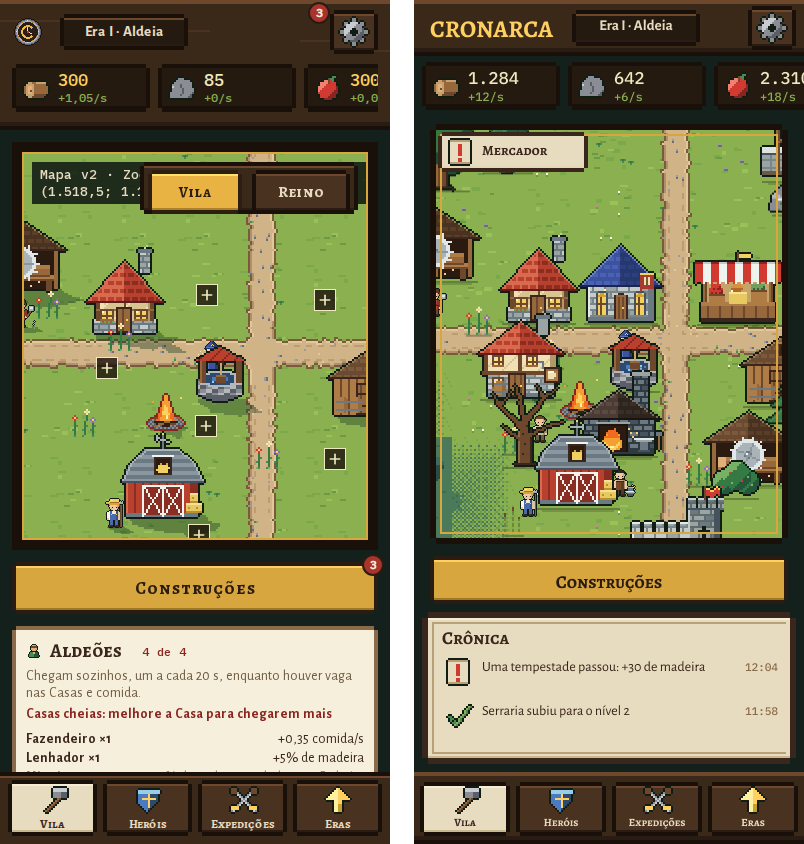
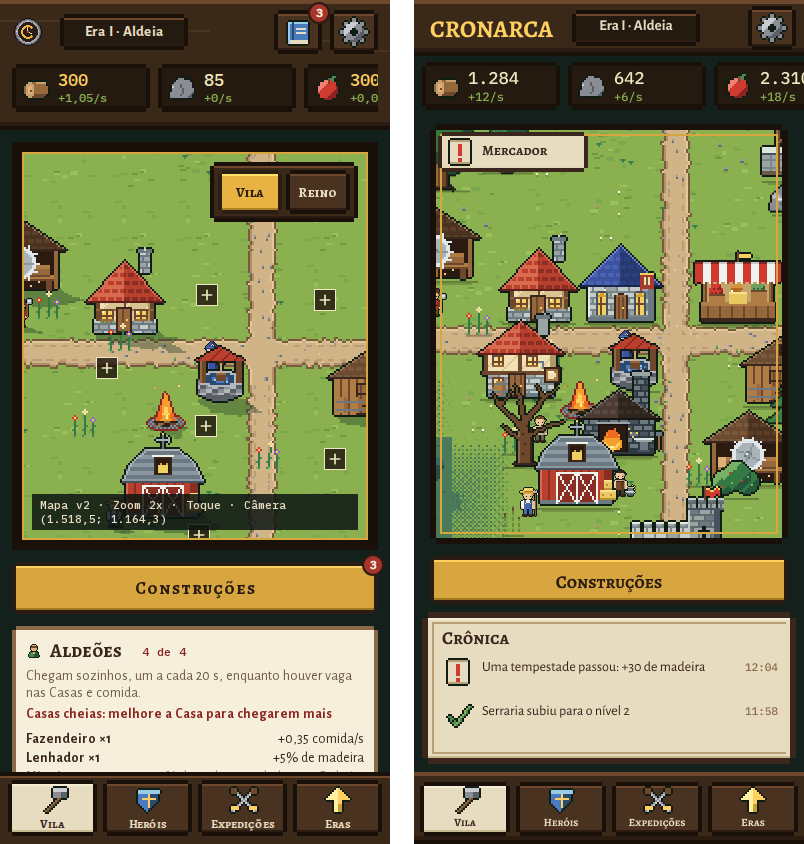
Catálogo com resumo do próximo nível; Vila/Reino compacto no celular
- Catálogo: a linha de construção já feita mostra "Nível N → N+1", o
  efeito de hoje → depois, o custo (falta em vermelho), o tempo de obra e
  o motivo; Melhorar dourado só quando dá para pagar, "Nível 10 · máximo"
  sem botão. O Melhorar do catálogo age direto (câmera vai até a
  construção); o modal Melhorar segue pelo mapa e pelo painel. As linhas
  de Construir mostram o tempo de obra.
- Celular: alternância Vila/Reino compacta (botões de 64 x 44) e a leitura
  de depuração (só em desenvolvimento) no pé do mapa.
- conferir-mobile abre o modal Melhorar tocando na Casa no mapa.

diff --git a/apps/frontend/components/casca/Catalogo.tsx b/apps/frontend/components/casca/Catalogo.tsx
@@ -6,7 +6,7 @@
 // intenções: quem constrói é o JogoAoVivo, e quem valida é o servidor.
 
 import { TEXTOS_CATALOGO, type SlotId } from '@cronarca/game-core';
-import { Check, Lock } from 'lucide-react';
+import { ArrowRight, Check, Lock } from 'lucide-react';
 import { useEffect, useRef, useState, type KeyboardEvent } from 'react';
 import { filtrarCatalogo, type FiltroCatalogo, type LinhaCatalogoTela } from '../../lib/casca/modais';
 import { Icone } from './Icone';
@@ -47,7 +47,17 @@ function Linha({ l, foco, construindo, aoAgir }: { l: LinhaCatalogoTela; foco: b
     >
       <SpriteAnimado className={estilos.pixel} sprite={l.sprite} instancia={l.slot} lado={48} />
       <div className={estilos.linhaInfo}>
-        <h3 className={estilos.nomeLinha}>{l.nome}</h3>
+        <h3 className={estilos.nomeLinha}>
+          {l.nome}
+          {l.nivel && <span className={estilos.nivelNome}>{l.nivel}</span>}
+        </h3>
+        {l.efeito && (
+          <p className={estilos.efeitoLinha}>
+            {l.efeito.hoje}
+            <ArrowRight size={14} strokeWidth={3} aria-label="passa a" className={estilos.setaLinha} />
+            <strong>{l.efeito.depois}</strong>
+          </p>
+        )}
         {l.custo.length > 0 && (
           <p className={estilos.custosLinha}>
             {l.custo.map((c) => (
@@ -56,6 +66,12 @@ function Linha({ l, foco, construindo, aoAgir }: { l: LinhaCatalogoTela; foco: b
                 {c.valor}
               </span>
             ))}
+            {l.tempo && (
+              <span className={estilos.tempoLinha}>
+                <Icone nome="icone-tempo" tamanho={16} />
+                {l.tempo}
+              </span>
+            )}
           </p>
         )}
         {l.obra && (
@@ -67,10 +83,10 @@ function Linha({ l, foco, construindo, aoAgir }: { l: LinhaCatalogoTela; foco: b
             </div>
           </div>
         )}
-        {l.nivel && (
+        {l.nivel && !l.acao && (
           <p className={estilos.nivelLinha}>
             <Check size={16} strokeWidth={3} aria-hidden="true" className={estilos.verde} />
-            {l.nivel}
+            {T.maximo}
           </p>
         )}
         {l.motivo && (
@@ -84,14 +100,14 @@ function Linha({ l, foco, construindo, aoAgir }: { l: LinhaCatalogoTela; foco: b
         <button
           type="button"
           tabIndex={-1}
-          className={`caixa botao ${l.acao === 'construir' ? 'botao-dourado' : ''} ${estilos.botaoLinha} ${desativado ? estilos.desativado : ''}`}
+          className={`caixa botao ${l.pode ? 'botao-dourado' : ''} ${estilos.botaoLinha} ${desativado ? estilos.desativado : ''}`}
           aria-disabled={desativado || undefined}
           aria-describedby={l.motivo ? idMotivo : undefined}
           onClick={() => {
             if (!desativado) aoAgir();
           }}
         >
-          {construindo ? T.construindo : l.acao === 'construir' ? T.construir : T.melhorar}
+          {construindo ? (l.acao === 'melhorar' ? T.melhorando : T.construindo) : l.acao === 'construir' ? T.construir : T.melhorar}
         </button>
       )}
     </li>

diff --git a/apps/frontend/lib/casca/modais.ts b/apps/frontend/lib/casca/modais.ts
@@ -140,8 +140,12 @@ export interface LinhaCatalogoTela {
   custo: CustoModal[];
   /** Motivo em texto (não só cor): "Falta pedra e ouro", "Requer Cartografia". */
   motivo: string | null;
-  /** Construída: "Nível 3". */
+  /** Construída: "Nível 3 → 4" ou "Nível 10 · máximo". */
   nivel: string | null;
+  /** Construída e abaixo do máximo: o efeito de hoje e o do próximo nível ("+12 aldeões" → "+16 aldeões"). */
+  efeito: { hoje: string; depois: string } | null;
+  /** Tempo da obra do próximo nível ("1:22 de obra"); null sem obra possível. */
+  tempo: string | null;
   obra: { restante: string; fracao: number } | null;
   /** O botão da linha (Em obra e Bloqueada não têm). */
   acao: 'construir' | 'melhorar' | null;
@@ -152,6 +156,26 @@ export interface LinhaCatalogoTela {
 function paraTela(e: VisaoCliente, l: LinhaCatalogo, agora: number): LinhaCatalogoTela {
   const T = TEXTOS_CATALOGO;
   const vazio = l.estado === 'construivel' || l.estado === 'sem_recursos';
+  if (l.estado === 'construida') {
+    // Resumo do próximo nível na própria linha (o mesmo cálculo do modal Melhorar).
+    const o = obra(e, l.slot, agora);
+    const maximo = o.situacao === 'maximo';
+    const faltando = o.custo.filter((c) => c.falta).map((c) => NOMES_RECURSOS[c.recurso].toLowerCase());
+    return {
+      slot: l.slot,
+      nome: l.nome,
+      sprite: { grupo: 'construcao', id: l.tipo },
+      estado: l.estado,
+      custo: o.custo,
+      motivo: faltando.length ? `${T.falta} ${juntarNomes(faltando)}` : null,
+      nivel: maximo ? `${T.nivel} ${o.nivel} · ${T.nivelMaximo}` : `${T.nivel} ${o.nivel} → ${o.alvo}`,
+      efeito: maximo || o.hoje === null ? null : { hoje: o.hoje, depois: o.depois },
+      tempo: maximo ? null : `${o.tempo} ${T.deObra}`,
+      obra: null,
+      acao: maximo ? null : 'melhorar',
+      pode: !maximo && faltando.length === 0,
+    };
+  }
   return {
     slot: l.slot,
     nome: l.nome,
@@ -162,10 +186,12 @@ function paraTela(e: VisaoCliente, l: LinhaCatalogo, agora: number): LinhaCatalo
       l.estado === 'sem_recursos' ? `${T.falta} ${juntarNomes(l.falta.map((r) => NOMES_RECURSOS[r].toLowerCase()))}`
       : l.estado === 'bloqueada' && l.requer ? `${T.requer} ${PESQUISAS[l.requer].nome}`
       : null,
-    nivel: l.estado === 'construida' ? `${T.nivel} ${l.nivel}` : null,
+    nivel: null,
+    efeito: null,
+    tempo: vazio ? `${formatarDuracao(tempoObraMs(1))} ${T.deObra}` : null,
     obra: l.obra ? { restante: formatarRestante(l.obra.fim - agora), fracao: l.obra.fracao } : null,
-    acao: vazio ? 'construir' : l.estado === 'construida' ? 'melhorar' : null,
-    pode: l.estado === 'construivel' || l.estado === 'construida',
+    acao: vazio ? 'construir' : null,
+    pode: l.estado === 'construivel',
   };
 }
 

diff --git a/apps/frontend/components/jogo/JogoAoVivo.tsx b/apps/frontend/components/jogo/JogoAoVivo.tsx
@@ -104,7 +104,7 @@ function Jogo({ depuracao = false, acoesDepuracao }: PropsJogo) {
   const [apagando, setApagando] = useState(false);
   /** Construíveis no momento em que o catálogo abriu: o selo some até aparecer um novo. */
   const [vistos, setVistos] = useState<ReadonlySet<SlotId>>(new Set());
-  /** Slot cujo construir espera o servidor (o catálogo fecha com a confirmação). */
+  /** Slot cuja obra (construir ou melhorar pelo catálogo) espera o servidor (o catálogo fecha com a confirmação). */
   const [construindo, setConstruindo] = useState<SlotId | null>(null);
   /** Grupo da expedição: começa vazio; só quem está na vila entra (lib/casca/telas). */
   const [selecionados, setSelecionados] = useState<string[]>([]);
@@ -213,14 +213,15 @@ function Jogo({ depuracao = false, acoesDepuracao }: PropsJogo) {
   }
 
   /**
-   * Construir pelo catálogo: a obra aparece prevista; com a confirmação do
-   * servidor o catálogo fecha, o jogo vai para a Vila e a câmera anima até o
-   * slot, que pisca. Recusa: aviso e o catálogo continua aberto.
+   * Construir ou melhorar pelo catálogo (a linha já mostrou o resumo): a obra
+   * aparece prevista; com a confirmação do servidor o catálogo fecha, o jogo
+   * vai para a Vila e a câmera anima até o slot, que pisca. Recusa: aviso e o
+   * catálogo continua aberto.
    */
-  const construir = async (slot: SlotId) => {
+  const obraPeloCatalogo = async (tipo: 'construir' | 'melhorar', slot: SlotId) => {
     if (construindo) return;
     setConstruindo(slot);
-    const d = await enviarPrevista({ tipo: 'construir', slot });
+    const d = await enviarPrevista({ tipo, slot });
     setConstruindo(null);
     if (!d.ok) return;
     setModal(null);
@@ -448,9 +449,8 @@ function Jogo({ depuracao = false, acoesDepuracao }: PropsJogo) {
           linhas={linhasCatalogoTela(visivel, agora, modal.ordem)}
           foco={modal.foco}
           construindo={construindo}
-          aoConstruir={(slot) => void construir(slot)}
-          // Troca de modal (não empilha dois diálogos com foco preso).
-          aoMelhorar={(slot) => setModal({ tipo: 'obra', slot })}
+          aoConstruir={(slot) => void obraPeloCatalogo('construir', slot)}
+          aoMelhorar={(slot) => void obraPeloCatalogo('melhorar', slot)}
           aoFechar={() => setModal(null)}
         />
       )}

diff --git a/apps/frontend/test/modais.test.ts b/apps/frontend/test/modais.test.ts
@@ -90,7 +90,12 @@ describe('catálogo na tela (A12)', () => {
     expect(porSlot.mercado_1).toMatchObject({ estado: 'construivel', pode: true });
     expect(porSlot.mercado_1!.custo.map((c) => c.recurso)).toEqual(['madeira']);
     expect(porSlot.muralha_1).toMatchObject({ estado: 'em_obra', acao: null, custo: [], obra: { restante: '00:32' } });
-    expect(porSlot.casa_1).toMatchObject({ estado: 'construida', acao: 'melhorar', pode: true, nivel: 'Nível 3' });
+    // Construída: o resumo do próximo nível já na linha (o mesmo cálculo do modal Melhorar).
+    expect(porSlot.casa_1).toMatchObject({
+      estado: 'construida', acao: 'melhorar', pode: true, nivel: 'Nível 3 → 4', motivo: null,
+      efeito: { hoje: '+12 aldeões', depois: '+16 aldeões' }, tempo: '1:22 de obra',
+    });
+    expect(porSlot.casa_1!.custo.map((c) => `${c.recurso} ${c.valor}`)).toEqual(['madeira 447', 'pedra 223']);
     expect(porSlot.serraria_2!.nome).toBe('Serraria II');
   });
 
@@ -179,5 +184,21 @@ describe('modais: Ascensão', () => {
     expect(formatarDuracao(45_000)).toBe('0:45');
     expect(formatarDuracao(90_000)).toBe('1:30');
     expect(formatarDuracao(3_720_000)).toBe('1:02:00');
+  });
+});
+
+describe('catálogo: linha de construção já feita', () => {
+  it('sem recurso: o motivo diz o que falta e o Melhorar fica apagado', () => {
+    const e = novo();
+    const casa = linhasCatalogoTela(e, T0).find((l) => l.slot === 'casa_1')!;
+    expect(casa).toMatchObject({ acao: 'melhorar', pode: false, nivel: 'Nível 1 → 2' });
+    expect(casa.motivo).toMatch(/^Falta /);
+  });
+
+  it('no nível máximo: sem botão, sem custo, "Nível 10 · máximo"', () => {
+    const e = novo();
+    e.slots.casa_1.nivel = 10;
+    const casa = linhasCatalogoTela(e, T0).find((l) => l.slot === 'casa_1')!;
+    expect(casa).toMatchObject({ acao: null, pode: false, nivel: 'Nível 10 · máximo', efeito: null, tempo: null, custo: [] });
   });
 });

diff --git a/packages/game-core/data/catalogo.ts b/packages/game-core/data/catalogo.ts
@@ -4,12 +4,18 @@
 export const TEXTOS_CATALOGO = {
   titulo: 'Construções',
   subtitulo: 'Escolha o que erguer. O terreno é escolhido por nós.',
-  rodape: 'Cada construção ocupa o terreno do seu tipo. Ao construir, a câmera vai até ela.',
+  rodape: 'Cada construção ocupa o terreno do seu tipo. Ao construir ou melhorar, a câmera vai até ela.',
   filtroTodas: 'Todas',
   filtroDisponiveis: 'Disponíveis',
   construir: 'Construir',
   construindo: 'Construindo…',
   melhorar: 'Melhorar',
+  melhorando: 'Melhorando…',
+  maximo: 'Máximo',
+  /** Depois do nível 10: "Nível 10 · máximo". */
+  nivelMaximo: 'máximo',
+  /** Depois do tempo: "1:22 de obra". */
+  deObra: 'de obra',
   nivel: 'Nível',
   /** Seguido dos recursos que faltam: "Falta pedra e ouro". */
   falta: 'Falta',

diff --git a/apps/frontend/components/casca/casca.module.css b/apps/frontend/components/casca/casca.module.css
@@ -2307,10 +2307,23 @@
 /* Celular: a alternância Vila/Reino no canto de cima à direita do mapa
    (frame "Mapa - Mobile"); embaixo ficava o botão Construir, que saiu do mapa. */
 @media (max-width: 600px) {
+  /* Compacta: dois botões de 64 x 44 (alvo de toque), cerca de 140 de largura em vez de 218. */
   .alternar {
     top: 8px;
     bottom: auto;
     right: 8px;
+    width: auto;
+    height: auto;
+    gap: 4px;
+    padding: 4px;
+  }
+  .alternar button,
+  .alternar button:first-child,
+  .alternar button:last-child {
+    width: 64px;
+    height: 44px;
+    font-size: 14px;
+    letter-spacing: 0.5px;
   }
   /* Chip do Mercador abaixo da alternância: em 360 px os dois se cruzavam e a
      alternância cobria o chip (o toque não chegava nele). */

diff --git a/apps/frontend/components/casca/modais.module.css b/apps/frontend/components/casca/modais.module.css
@@ -1071,3 +1071,31 @@
     --fundo: #fbf1d0;
   }
 }
+
+/* Resumo do próximo nível na linha do catálogo: "Nível 3 → 4", o efeito de
+   hoje → depois e o tempo de obra ao lado do custo. */
+.nivelNome {
+  margin-left: 8px;
+  font-family: var(--fonte-texto), sans-serif;
+  font-size: 13px;
+  font-weight: 700;
+  color: #8a6a48;
+}
+.efeitoLinha {
+  display: flex;
+  flex-wrap: wrap;
+  align-items: center;
+  gap: 2px 6px;
+  margin: 2px 0;
+  font-size: 14px;
+  color: #6e5a40;
+}
+.efeitoLinha strong {
+  color: #2e6b2e;
+}
+.setaLinha {
+  color: #8a6a48;
+}
+.custosLinha > .tempoLinha {
+  color: #6e5a40;
+}

diff --git a/apps/frontend/components/mapa/mapa.module.css b/apps/frontend/components/mapa/mapa.module.css
@@ -76,3 +76,14 @@
   background: rgb(26 16 10 / 0.8);
   border: 1px solid #f0e8c0;
 }
+
+/* Celular: a leitura de depuração (só em desenvolvimento) desce para o pé do
+   mapa, para não ficar embaixo da alternância Vila/Reino. */
+@media (max-width: 600px) {
+  .depuracao {
+    top: auto;
+    bottom: 8px;
+    max-width: calc(100% - 16px);
+    font-size: 11px;
+  }
+}
